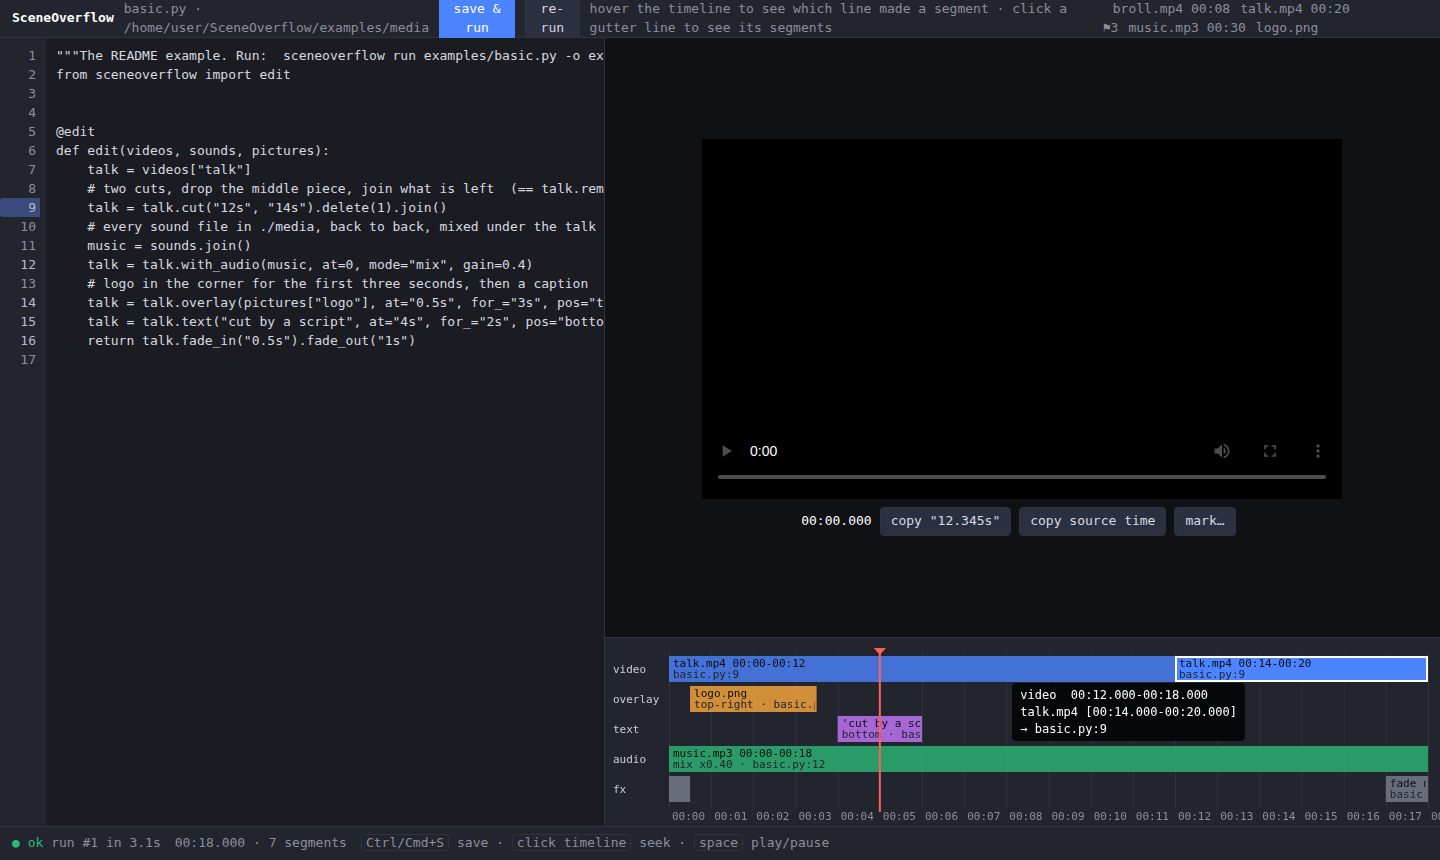
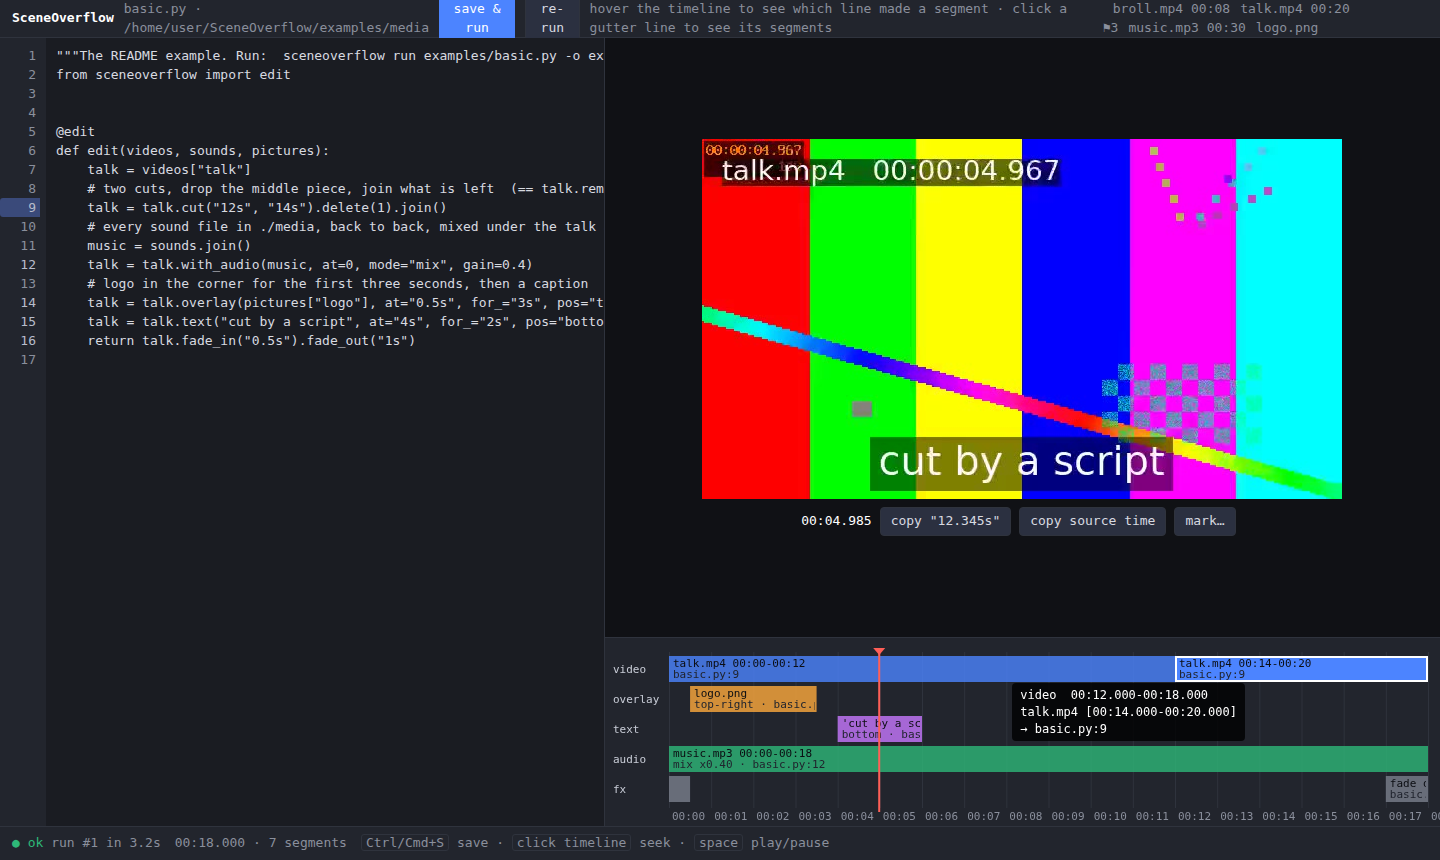
Studio: stills fallback for browsers without an H.264 decoder

Changed region(s): [[0.4688, 0.1512, 0.9375, 0.6047]]

diff --git a/sceneoverflow/studio/index.html b/sceneoverflow/studio/index.html
@@ -59,6 +59,7 @@
   <div id="right">
     <div id="player">
       <video id="v" controls preload="auto"></video>
+      <img id="still" style="display:none;max-width:100%;max-height:calc(100% - 40px)" alt="frame at playhead">
       <div id="vbar">
         <span class="t" id="tcur">00:00.000</span>
         <button id="copyt" title="copy the playhead time as a literal">copy "12.345s"</button>
@@ -116,17 +117,30 @@
   $('rerun').onclick = () => fetch('/api/rerun', { method: 'POST' });
 
   // ---------------- video
+  // Browsers without an H.264 decoder (some Linux Chromium builds) get stills from /api/frame instead.
+  const still = $('still');
+  const stills = !video.canPlayType('video/mp4; codecs="avc1.42E01E, mp4a.40.2"');
+  let vt = 0;
+  if (stills) { video.style.display = 'none'; still.style.display = 'block'; }
+  const curTime = () => stills ? vt : (video.currentTime || 0);
+  function seek(t) {
+    t = Math.max(0, t);
+    if (stills) { vt = t; still.src = `/api/frame?t=${t.toFixed(3)}s&w=640&r=${state?.run_id || 0}`;
+      $('tcur').textContent = fmt(t); draw(); }
+    else video.currentTime = t;
+  }
   let pendingTime = null;
   video.addEventListener('timeupdate', () => { $('tcur').textContent = fmt(video.currentTime); draw(); });
   video.addEventListener('seeking', draw);
   video.addEventListener('loadedmetadata', () => { if (pendingTime != null) { video.currentTime = Math.min(pendingTime, video.duration || 0); pendingTime = null; } draw(); });
   document.addEventListener('keydown', e => {
     if (e.target === code) return;
-    if (e.key === ' ') { e.preventDefault(); video.paused ? video.play() : video.pause(); }
-    if (e.key === 'ArrowLeft') video.currentTime -= e.shiftKey ? 1 : 1 / 30;
-    if (e.key === 'ArrowRight') video.currentTime += e.shiftKey ? 1 : 1 / 30;
+    if (e.key === ' ' && !stills) { e.preventDefault(); video.paused ? video.play() : video.pause(); }
+    if (e.key === 'ArrowLeft') seek(curTime() - (e.shiftKey ? 1 : 1 / 30));
+    if (e.key === 'ArrowRight') seek(curTime() + (e.shiftKey ? 1 : 1 / 30));
   });
   function loadPreview(url) {
+    if (stills) { seek(Math.min(vt, state?.timeline?.duration || vt)); return; }
     const wasPlaying = !video.paused && !video.ended;
     pendingTime = video.currentTime || 0;
     // a real frame while the new file loads (and if the browser cannot decode H.264 at all)
@@ -135,16 +149,16 @@
     if (wasPlaying) video.play().catch(() => {});
   }
   function segUnderPlayhead() {
-    const t = video.currentTime;
+    const t = curTime();
     return (state?.timeline?.segments || []).find(s => s.track === 'video' && t >= s.out_start && t < s.out_end);
   }
   function sourceTime() {
     const s = segUnderPlayhead();
     if (!s || s.src_start == null) return null;
-    return { file: s.source, t: s.src_start + (video.currentTime - s.out_start) * s.rate };
+    return { file: s.source, t: s.src_start + (curTime() - s.out_start) * s.rate };
   }
   const copy = txt => navigator.clipboard.writeText(txt).then(() => flash('copied ' + txt));
-  $('copyt').onclick = () => copy(`"${video.currentTime.toFixed(3)}s"`);
+  $('copyt').onclick = () => copy(`"${curTime().toFixed(3)}s"`);
   $('copysrc').onclick = () => { const s = sourceTime(); s ? copy(`"${s.t.toFixed(3)}s"`) : flash('no source under playhead'); };
   $('mark').onclick = async () => {
     const s = sourceTime(); if (!s) return flash('no source clip under the playhead');
@@ -168,7 +182,7 @@
     lanes.sort((a, b) => (ORDER[a.track] ?? 9) - (ORDER[b.track] ?? 9));
   }
   const L = 64, ROW = 26, GAP = 4, TOP = 18;
-  function geom() { const dur = Math.max(state?.timeline?.duration || video.duration || 1, 1e-6);
+  function geom() { const dur = Math.max(state?.timeline?.duration || (stills ? 0 : video.duration) || 1, 1e-6);
     const w = canvas.clientWidth - L - 12; return { dur, x: t => L + t / dur * w, t: x => (x - L) / w * dur }; }
   function draw() {
     const dpr = devicePixelRatio || 1;
@@ -204,7 +218,7 @@
         }
       }
     });
-    const px = g.x(video.currentTime || 0);
+    const px = g.x(curTime());
     ctx.fillStyle = '#ff5f57'; ctx.fillRect(px - 1, TOP - 8, 2, h - TOP - 6);
     ctx.beginPath(); ctx.moveTo(px - 6, TOP - 8); ctx.lineTo(px + 6, TOP - 8); ctx.lineTo(px, TOP - 1); ctx.fill();
   }
@@ -225,7 +239,7 @@
     else tip.style.display = 'none';
   });
   canvas.addEventListener('mouseleave', () => { hoverSeg = null; tip.style.display = 'none'; renderGutter(); draw(); });
-  canvas.addEventListener('click', ev => { const g = geom(); video.currentTime = Math.max(0, Math.min(g.dur, g.t(ev.clientX - canvas.getBoundingClientRect().left))); });
+  canvas.addEventListener('click', ev => { const g = geom(); seek(Math.min(g.dur, g.t(ev.clientX - canvas.getBoundingClientRect().left))); });
   new ResizeObserver(draw).observe($('tl'));
 
   // ---------------- status + media

diff --git a/README.md b/README.md
@@ -159,7 +159,9 @@ gutter; click a gutter line and its segments light up on the timeline. Click the
 timeline to seek. "copy source time" copies the *source file* time under the playhead
 as a literal; "mark…" writes a named marker into the source's sidecar so the script
 can say `.marks["name"]` instead. A failed run shows the error and marks the failing
-line red. Stdlib only: no extra dependency, no build step.
+line red. Stdlib only: no extra dependency, no build step. A browser without an H.264
+decoder (some Linux Chromium builds) gets frame-by-frame stills instead of playback;
+seeking and marking still work.
 
 ![the studio: editor, preview, timeline with a hovered segment](docs/images/studio.png)
 
